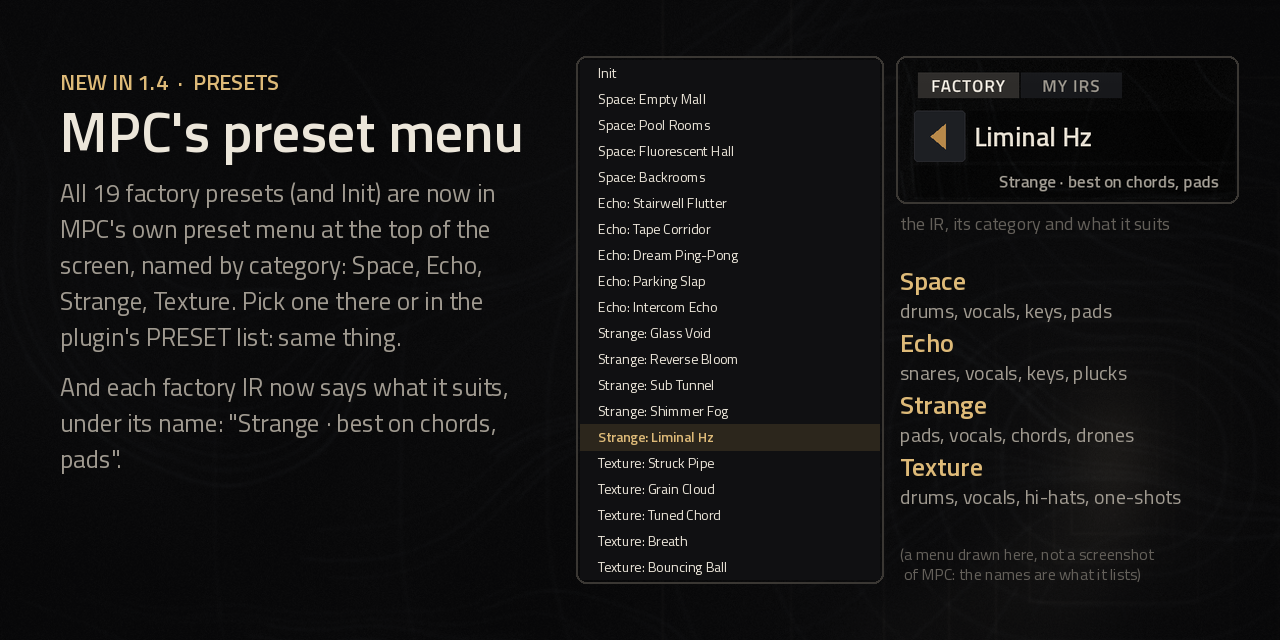
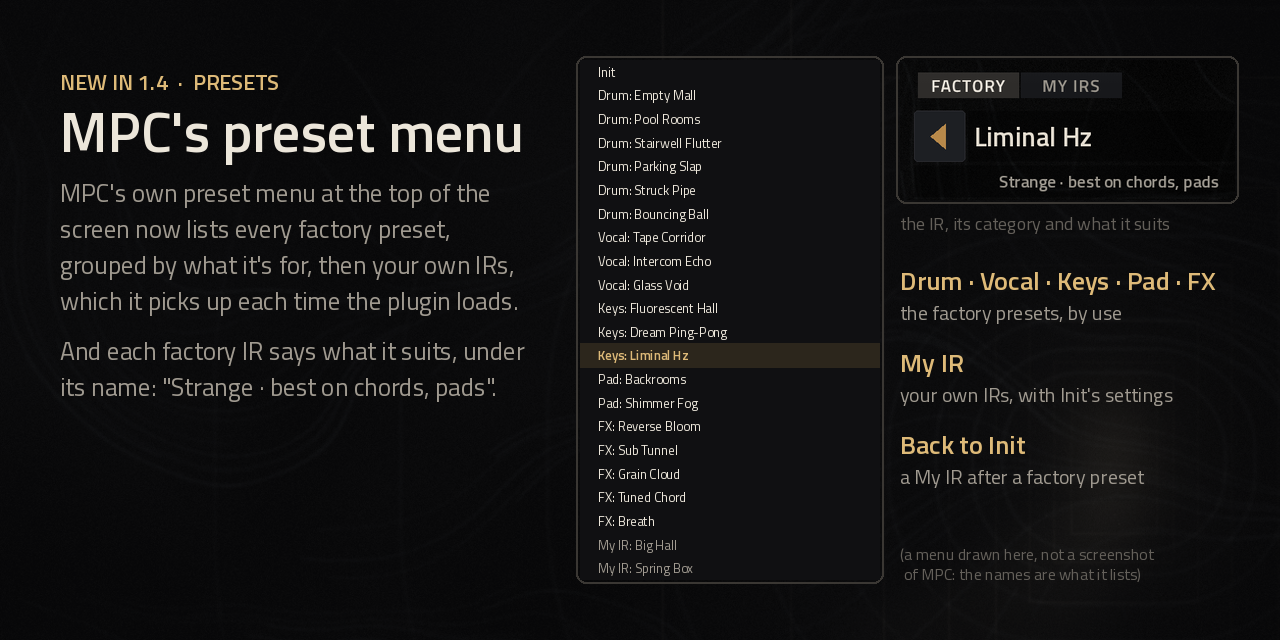
Images: MPC's preset menu by use, with My IRs
feature-presets (and its square) now show the menu as it lists: Init,
the Drum, Vocal, Keys, Pad and FX presets, then two example My IRs; the
side notes say what each group is and that a My IR after a factory
preset goes back to Init. The "New in 1.4" card's line follows.

Claude-Session: https://claude.ai/code/session_019nRdHg98HMuDH1M236dh2W

diff --git a/tools/make_feature_images.py b/tools/make_feature_images.py
@@ -205,11 +205,11 @@ def make_textures(W, H, social=False):
         wordmark(d, 640, 1010, 34)
     return im
 
-PROGRAMS = ["Init", "Space: Empty Mall", "Space: Pool Rooms", "Space: Fluorescent Hall", "Space: Backrooms",
-            "Echo: Stairwell Flutter", "Echo: Tape Corridor", "Echo: Dream Ping-Pong", "Echo: Parking Slap",
-            "Echo: Intercom Echo", "Strange: Glass Void", "Strange: Reverse Bloom", "Strange: Sub Tunnel",
-            "Strange: Shimmer Fog", "Strange: Liminal Hz", "Texture: Struck Pipe", "Texture: Grain Cloud",
-            "Texture: Tuned Chord", "Texture: Breath", "Texture: Bouncing Ball"]
+PROGRAMS = ["Init", "Drum: Empty Mall", "Drum: Pool Rooms", "Drum: Stairwell Flutter", "Drum: Parking Slap",
+            "Drum: Struck Pipe", "Drum: Bouncing Ball", "Vocal: Tape Corridor", "Vocal: Intercom Echo", "Vocal: Glass Void",
+            "Keys: Fluorescent Hall", "Keys: Dream Ping-Pong", "Keys: Liminal Hz", "Pad: Backrooms", "Pad: Shimmer Fog",
+            "FX: Reverse Bloom", "FX: Sub Tunnel", "FX: Grain Cloud", "FX: Tuned Chord", "FX: Breath",
+            "My IR: Big Hall", "My IR: Spring Box"]      # (the last two: your own IRs, examples)
 
 def program_list(w, h, rows, start=0, hi=14):
     im = Image.new("RGB", (w, h), (16, 16, 18)); d = ImageDraw.Draw(im)
@@ -219,30 +219,33 @@ def program_list(w, h, rows, start=0, hi=14):
         if i >= len(PROGRAMS): break
         y = k * rh
         if i == hi: d.rectangle((0, y, w, y + rh), fill=(44, 38, 28))
-        d.text((18, y + rh / 2), PROGRAMS[i], font=F("s" if i == hi else "r", min(26, rh * 0.55)), fill=AMB if i == hi else IV, anchor="lm")
+        mine = PROGRAMS[i].startswith("My IR")
+        d.text((18, y + rh / 2), PROGRAMS[i], font=F("s" if i == hi else "r", min(26, rh * 0.55)),
+               fill=AMB if i == hi else (GR if mine else IV), anchor="lm")
     return im
 
 def make_presets(W, H, social=False):
     im = canvas(W, H); d = ImageDraw.Draw(im)
-    body = ["All 19 factory presets (and Init) are now in MPC's own preset menu at the top of the screen, named by "
-            "category: Space, Echo, Strange, Texture. Pick one there or in the plugin's PRESET list: same thing.",
-            "And each factory IR now says what it suits, under its name: \"Strange · best on chords, pads\"."]
+    body = ["MPC's own preset menu at the top of the screen now lists every factory preset, grouped by what it's for, "
+            "then your own IRs, which it picks up each time the plugin loads.",
+            "And each factory IR says what it suits, under its name: \"Strange · best on chords, pads\"."]
     if not social:
         header(d, 60, 90, "NEW IN 1.4  ·  PRESETS", "MPC's preset menu", body, 470)
-        framed(im, program_list(300, 520, 20, 0, 14), (580, 60))
+        framed(im, program_list(300, 520, 22, 0, 12), (580, 60))
         framed(im, page_crop("stabs", (0, 120, 430, 300), 0.78), (900, 60))
         d.text((900, 230), "the IR, its category and what it suits", font=F("r", 18), fill=DIM, anchor="ls")
-        best = [("Space", "drums, vocals, keys, pads"), ("Echo", "snares, vocals, keys, plucks"),
-                ("Strange", "pads, vocals, chords, drones"), ("Texture", "drums, vocals, hi-hats, one-shots")]
+        best = [("Drum \u00b7 Vocal \u00b7 Keys \u00b7 Pad \u00b7 FX", "the factory presets, by use"),
+                ("My IR", "your own IRs, with Init's settings"),
+                ("Back to Init", "a My IR after a factory preset")]
         for k, (c, b) in enumerate(best):
-            y = 290 + k * 62
+            y = 290 + k * 82
             d.text((900, y), c, font=F("s", 26), fill=AMB, anchor="ls")
-            d.text((900, y + 28), b, font=F("r", 20), fill=GR, anchor="ls")
+            d.text((900, y + 30), b, font=F("r", 20), fill=GR, anchor="ls")
         d.text((900, 560), "(a menu drawn here, not a screenshot", font=F("r", 16), fill=DIM, anchor="ls")
         d.text((900, 580), " of MPC: the names are what it lists)", font=F("r", 16), fill=DIM, anchor="ls")
     else:
         header(d, 70, 110, "NEW IN 1.4", "In MPC's preset menu", body[:1], 940, 1.25)
-        framed(im, program_list(440, 520, 13, 4, 14), (70, 440))
+        framed(im, program_list(440, 520, 13, 9, 12), (70, 440))
         framed(im, page_crop("stabs", (0, 120, 430, 300), 1.0), (540, 440))
         d.text((540, 650), "each IR says what it suits", font=F("r", 22), fill=GR, anchor="ls")
         wordmark(d, 640, 1010, 34)
@@ -252,7 +255,7 @@ def make_presets(W, H, social=False):
 FEATS = [("duck", "Duck", "The reverb ducks while you play and blooms in the gaps."),
          ("sync", "Tempo SYNC", "Pre-delay in note values, locked to your MPC's tempo."),
          ("textures", "Textures", "Five IRs that aren't rooms: a pipe, grains, a chord, a breath, a bounce."),
-         ("presets", "MPC's preset menu", "All 19 presets in MPC's own menu, each with what it suits.")]
+         ("presets", "MPC's preset menu", "The presets by use in MPC's own menu, and your own IRs too.")]
 
 def make_overview(W, H, social=False):
     im = canvas(W, H); d = ImageDraw.Draw(im)
